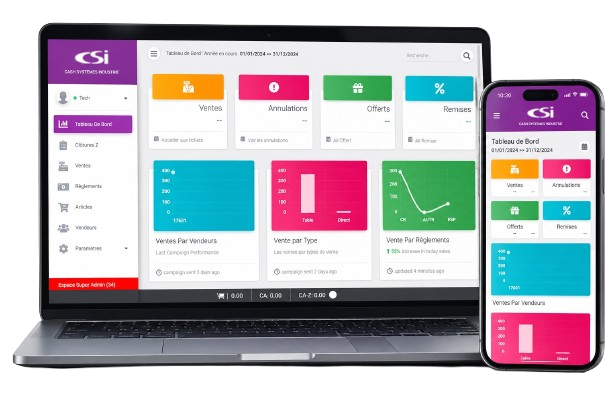
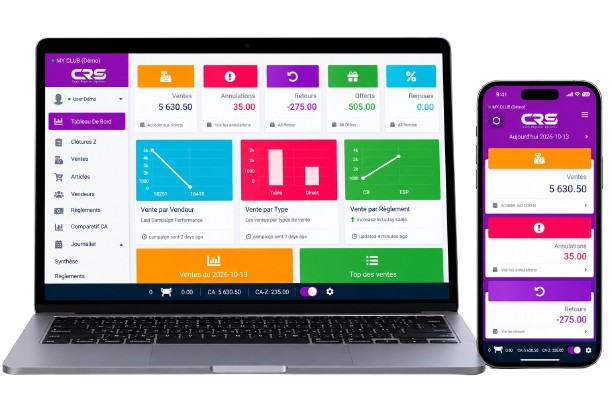
Fix product

diff --git a/src/components/Report.tsx b/src/components/Report.tsx
@@ -3,7 +3,7 @@ import {
   BarChart3, Clock, Smartphone, ShieldCheck, AlertCircle, RotateCcw, Gift,
   CalendarDays, Star, CreditCard, Share2, Send, Laptop, Tablet, Check,
 } from "lucide-react";
-
+import crsImage from '@/assets/crs.png';
 const ORANGE = "#f26a14";
 const NAVY = "#0f1b4c";
 
@@ -253,22 +253,21 @@ export default function OraliReporting() {
 
       {/* ================= FOOTER BAND ================= */}
       <section className="grid grid-cols-12 gap-4 px-5 pt-2 pb-8 items-center">
-        <div className="col-span-5 relative rounded-r-3xl text-white flex items-center overflow-hidden min-h-[200px]" style={{ background: ORANGE }}>
-          <div className="w-[38%] p-3">
-            <div className="bg-white text-slate-700 rounded-2xl p-2 text-[8px] -rotate-6 shadow-xl leading-snug">
-              <div className="bg-green-500 text-white rounded-full w-7 h-7 flex items-center justify-center mb-1 font-bold">W</div>
-              <b>Rapport journalier</b><br />13/10/2026<br />CA : 5 630.50 DH<br />Annulations : 35.00 DH<br />Retours : -275.00 DH<br />Top article : Burger
-            </div>
-          </div>
-          <div className="flex-1 pr-4 py-4 flex gap-2">
-            <Send className="shrink-0 mt-1 opacity-90" size={30} />
-            <div>
-              <h3 className="font-bold text-[19px] leading-tight">Recevez vos rapports sur WhatsApp</h3>
-              <p className="text-[12px] mt-2 opacity-95 leading-snug">Recevez automatiquement vos rapports quotidiens ou horaires directement sur WhatsApp.</p>
-            </div>
-          </div>
-        </div>
-
+<div className="col-span-5 relative rounded-r-3xl text-white flex items-center overflow-hidden min-h-[220px]" style={{ background: ORANGE }}>
+  <div className="w-[45%] p-2 flex items-center justify-center">
+  <img 
+      src={crsImage} 
+      alt="WhatsApp Illustration" 
+      className="w-52 h-52 object-contain drop-shadow-2xl scale-110" 
+    />
+  </div>
+  <div className="flex-1 pr-6 py-4 flex items-center gap-3">
+    <div>
+      <h3 className="font-bold text-[19px] leading-tight">Recevez vos rapports sur WhatsApp</h3>
+      <p className="text-[12px] mt-2 opacity-95 leading-snug">Recevez automatiquement vos rapports quotidiens ou horaires directement sur WhatsApp.</p>
+    </div>
+  </div>
+</div>
         <div className="col-span-4 text-center">
           <p className="text-[14px] font-medium text-left" style={{ color: ORANGE }}>ACCESSIBLE PARTOUT</p>
           <h3 className="text-[22px] font-extrabold text-left mb-3" style={{ color: NAVY }}>Sur tous vos appareils</h3>
